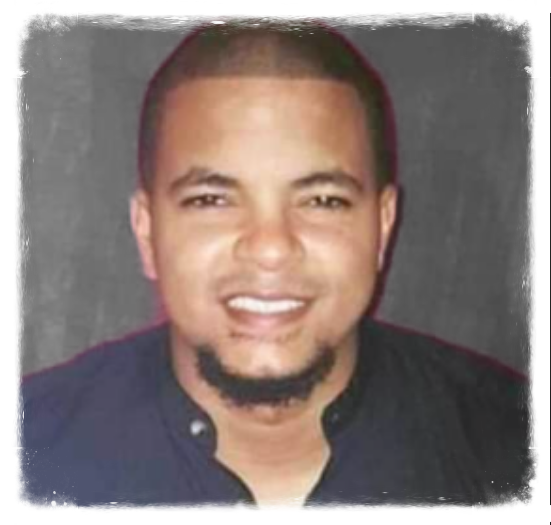
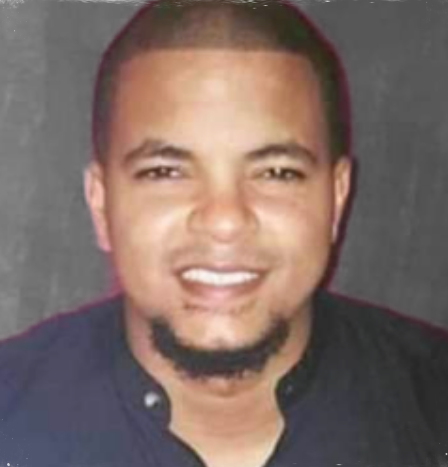
5fh commit

diff --git a/src/components/About.jsx b/src/components/About.jsx
@@ -10,6 +10,7 @@ const About = () => {
                     Actualmente soy estudiante del Bootcamp "Fullstack Developer" de Academlo donde he aprendido HTML, CSS, JAVASCRIPT y REACT.
                     Me interesa seguir ampliando mis conocimientos en el area de la programacion y aplicar lo que ya he aprendido en una empresa que me de la oportunidad!! 
                 </p>
+               
             </div>
             <div className='about-img'>
                 <img  src="./src/assets/me.png" alt="" />

diff --git a/src/components/style/About.css b/src/components/style/About.css
@@ -28,11 +28,11 @@
     height: 400px;
     display: flex;
     align-self: center;
-    overflow: hidden;
 }
 
 img {
-    box-sizing: border-box;
+    width: 100%;
+    max-width: 450px;
     border: solid lightgray 1px;
     border-radius: 40px;
 }
